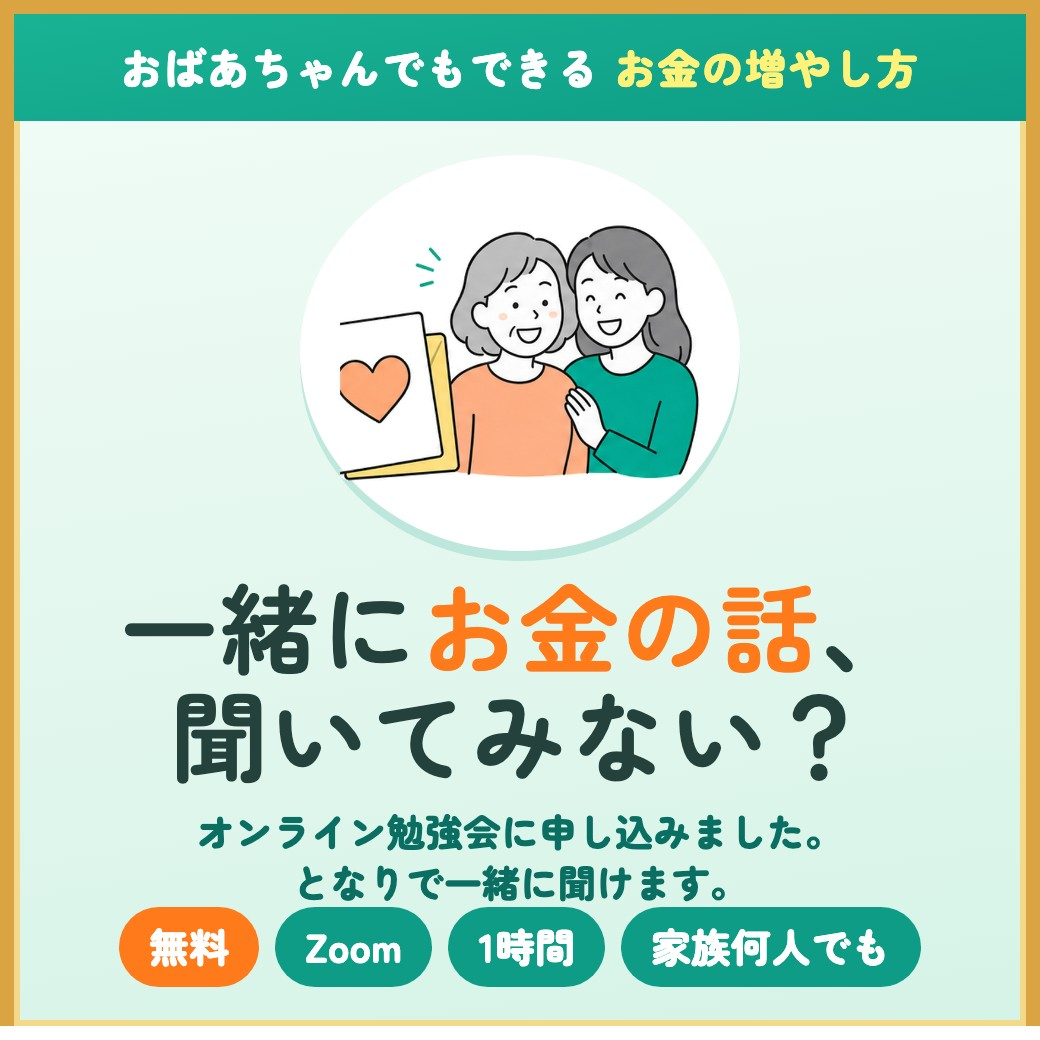
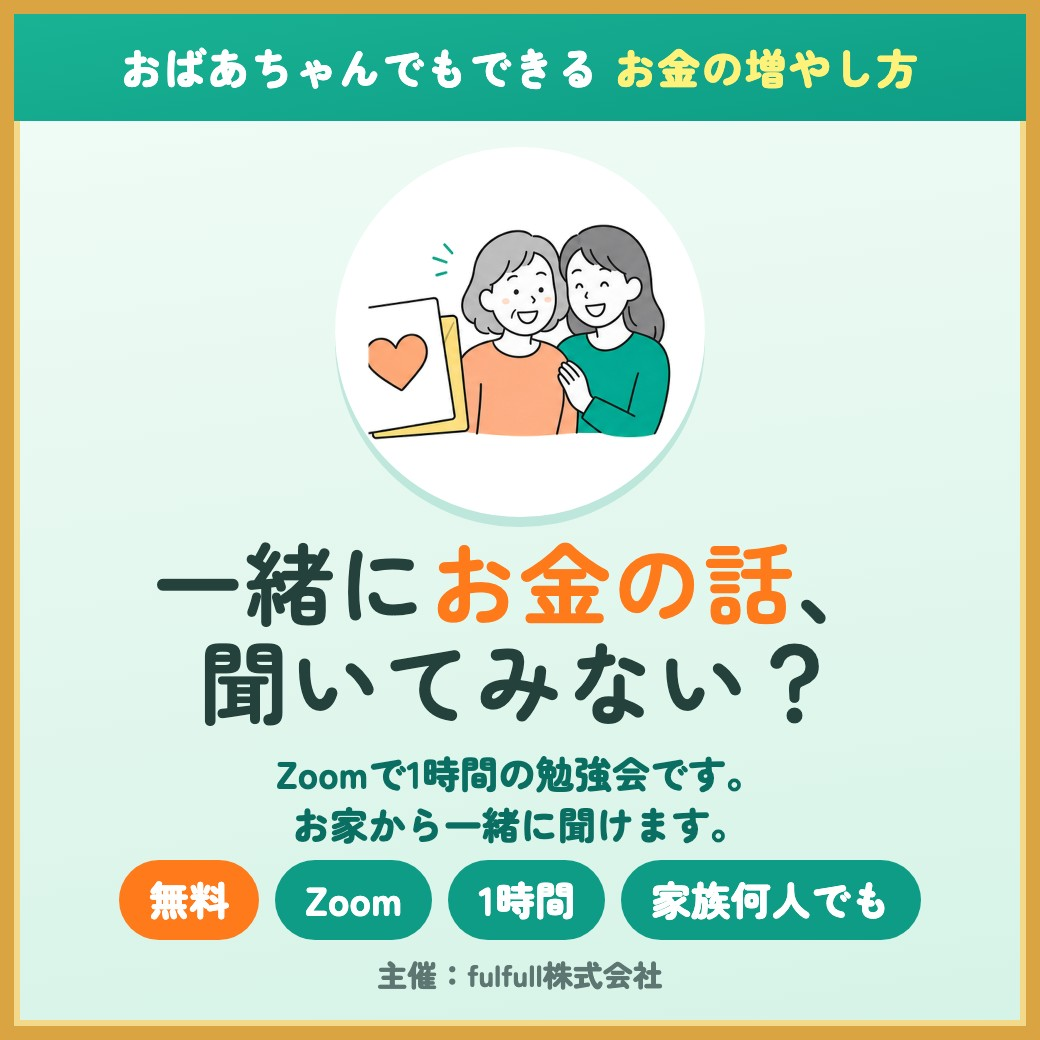
確認用：LINE全文と診断を第2版に（点検と100人テストの直し）
診断に「回せない」「年金・退職金」「使う順番」の席を足し、最後のボタンの言い方を直した。
全文は2日後の文を2案で並べ、Zoomの案内を実際の画面に合わせた。どちらも noindex の確認用。

Changed region(s): [[0.0923, 0.2154, 0.8923, 0.9538], [0.0, 0.9846, 1.0, 1.0]]

diff --git a/line-zenbun/index.html b/line-zenbun/index.html
@@ -52,8 +52,8 @@ footer{margin-top:40px;text-align:center;color:var(--sub);font-size:13px;font-we
 </style></head><body>
 <div class="top"><small>確認用の見本・本番には入れていません</small><h1>LINEの全文</h1><p>おばあちゃんでもできる お金の増やし方 オンライン勉強会</p></div>
 <div class="wrap">
-<div class="count"><div><b>10</b>新しく作る</div><div><b>4</b>言葉を直す</div><div><b>4</b>今のまま</div><div><b>1</b>止める</div></div>
-<div class="list"><a class="row k-new" href="#A1"><b>追加の直後</b><span>新しいLPから追加した人（Xから来た人は今の別の文のまま）</span><em>新しく作る</em></a><a class="row k-new" href="#A2"><b>診断の結果を送った直後</b><span>診断の最後のボタンを押した人（自動で返る・タイプごとに4種類）</span><em>新しく作る</em></a><a class="row k-keep" href="#A3"><b>10分後</b><span>全員</span><em>今のまま</em></a><a class="row k-new" href="#A4"><b>30分後</b><span>まだ申し込んでいない人</span><em>新しく作る</em></a><a class="row k-new" href="#A5"><b>1日後 19:30</b><span>まだ申し込んでいない人</span><em>新しく作る</em></a><a class="row k-new" href="#A6"><b>2日後 19:30</b><span>まだ申し込んでいない人</span><em>新しく作る</em></a><a class="row k-new" href="#A7"><b>3日後 20:00</b><span>まだ申し込んでいない人</span><em>新しく作る</em></a><a class="row k-stop" href="#A8"><b>4日後 20:00</b><span>―</span><em>止める</em></a><a class="row k-keep" href="#A9"><b>7日後・14日後・21日後</b><span>全員（21日後は、申し込んでいない人）</span><em>今のまま</em></a><a class="row k-new" href="#B1"><b>申込の直後</b><span>申し込んだ人</span><em>新しく作る</em></a><a class="row k-keep" href="#B2"><b>7日前 12:30</b><span>申し込んだ人</span><em>今のまま</em></a><a class="row k-fix" href="#B3"><b>3日前 12:30</b><span>申し込んだ人</span><em>言葉を直す</em></a><a class="row k-fix" href="#B4"><b>前日 12:30</b><span>申し込んだ人</span><em>言葉を直す</em></a><a class="row k-keep" href="#B5"><b>当日 7:30／1時間前／5分前</b><span>申し込んだ人</span><em>今のまま</em></a><a class="row k-fix" href="#B6"><b>翌朝 8:00</b><span>申し込んだが、席に着けなかった人</span><em>言葉を直す</em></a><a class="row k-fix" href="#B7"><b>2日後 19:30</b><span>申し込んだが、席に着けなかった人</span><em>言葉を直す</em></a><a class="row k-new" href="#C1"><b>翌朝 8:00</b><span>参加した人</span><em>新しく作る</em></a><a class="row k-new" href="#D1"><b>はじめての人のメニュー</b><span>追加した全員</span><em>新しく作る</em></a><a class="row k-new" href="#D2"><b>参加した人のメニュー</b><span>「勉強会参加済み」の人</span><em>新しく作る</em></a></div>
+<div class="count"><div><b>11</b>新しく作る</div><div><b>4</b>言葉を直す</div><div><b>4</b>今のまま</div><div><b>1</b>止める</div></div>
+<div class="list"><a class="row k-new" href="#A1"><b>追加の直後</b><span>新しいLPから追加した人（Xから来た人は今の別の文のまま）</span><em>新しく作る</em></a><a class="row k-new" href="#A2"><b>診断の結果を送った直後</b><span>診断の最後のボタンを押した人（自動で返る・タイプごとに4種類）</span><em>新しく作る</em></a><a class="row k-keep" href="#A3"><b>10分後</b><span>全員</span><em>今のまま</em></a><a class="row k-new" href="#A4"><b>30分後</b><span>まだ申し込んでいない人</span><em>新しく作る</em></a><a class="row k-new" href="#A5"><b>1日後 19:30</b><span>まだ申し込んでいない人</span><em>新しく作る</em></a><a class="row k-new" href="#A6"><b>2日後 19:30</b><span>まだ申し込んでいない人</span><em>新しく作る</em></a><a class="row k-new" href="#A7"><b>3日後 20:00</b><span>まだ申し込んでいない人</span><em>新しく作る</em></a><a class="row k-stop" href="#A8"><b>4日後 20:00</b><span>―</span><em>止める</em></a><a class="row k-keep" href="#A9"><b>7日後・14日後・21日後</b><span>全員（21日後は、申し込んでいない人）</span><em>今のまま</em></a><a class="row k-new" href="#B1"><b>申込の直後</b><span>申し込んだ人</span><em>新しく作る</em></a><a class="row k-new" href="#B1b"><b>申込の3分後</b><span>申し込んだ人</span><em>新しく作る</em></a><a class="row k-keep" href="#B2"><b>7日前 12:30</b><span>申し込んだ人</span><em>今のまま</em></a><a class="row k-fix" href="#B3"><b>3日前 12:30</b><span>申し込んだ人</span><em>言葉を直す</em></a><a class="row k-fix" href="#B4"><b>前日 12:30</b><span>申し込んだ人</span><em>言葉を直す</em></a><a class="row k-keep" href="#B5"><b>当日 7:30／1時間前／5分前</b><span>申し込んだ人</span><em>今のまま</em></a><a class="row k-fix" href="#B6"><b>翌朝 8:00</b><span>申し込んだが、席に着けなかった人</span><em>言葉を直す</em></a><a class="row k-fix" href="#B7"><b>2日後 19:30</b><span>申し込んだが、席に着けなかった人</span><em>言葉を直す</em></a><a class="row k-new" href="#C1"><b>翌朝 8:00</b><span>参加した人</span><em>新しく作る</em></a><a class="row k-new" href="#D1"><b>はじめての人のメニュー</b><span>追加した全員</span><em>新しく作る</em></a><a class="row k-new" href="#D2"><b>参加した人のメニュー</b><span>「勉強会参加済み」の人</span><em>新しく作る</em></a></div>
 <h2><i>✓</i>全体でそろえた言葉</h2>
 <div class="rule"><ul>
 <li>1回「1〜3組」。毎月「3万円から」。相談は「60分 税込5,500円」、参加した方は無料。</li>
@@ -70,17 +70,20 @@ footer{margin-top:40px;text-align:center;color:var(--sub);font-size:13px;font-we
 
 ・あなたのお金のタイプ
 ・毎月の積み立てが、この先どう育つか
-・あなたの回でお話しする3つ</div><figure class="b img"><img src="img/shindan_cover.jpg" alt="診断の表紙。タップで診断ページ" loading="lazy"><figcaption>診断の表紙。タップで診断ページ</figcaption></figure><div class="b btn">診断をはじめる（1分）</div><p class="to">押すと：診断ページ</p><div class="b btn">先に、空いている日を見る</div><p class="to">押すと：予約ページ</p></div><ul class="memo"><li>今の「登録直後_3問カード」は下書きにして残します。3つの質問は診断の中に入るので、別では送りません。</li></ul></article><article class="msg k-new" id="A2"><header><span class="when">診断の結果を送った直後</span><em>新しく作る</em></header><dl><dt>届く人</dt><dd>診断の最後のボタンを押した人（自動で返る・タイプごとに4種類）</dd><dt>今</dt><dd>なし（新しく作る）</dd></dl><div class="tabs" data-t="A2"><button type="button" class="on" data-i="0">たねまき</button><button type="button" data-i="1">めばえ</button><button type="button" data-i="2">つぼみ</button><button type="button" data-i="3">はなさか</button></div><div class="talk"><div class="pane" data-p="A2-0"><figure class="b img"><img src="img/kekka_1.jpg" alt="結果カード。タップで予約ページ" loading="lazy"><figcaption>結果カード。タップで予約ページ</figcaption></figure><div class="b">結果を受け取りました📋
-<span class="v">%line_name%</span>さんは「たねまきさん」。
-まだ何もしていなくて、大丈夫です。
-まく順番さえ分かれば、あとは育つのを待つだけです。
+・あなたの回でお話しする3つ
+
+日程をすぐ見たい方は、下の「先に、空いている日を見る」からどうぞ📅</div><figure class="b img"><img src="img/shindan_cover.jpg" alt="診断の表紙。タップで診断ページ" loading="lazy"><figcaption>診断の表紙。タップで診断ページ</figcaption></figure><div class="b btn">診断をはじめる（1分）</div><p class="to">押すと：診断ページ</p><div class="b btn">先に、空いている日を見る</div><p class="to">押すと：予約ページ</p></div><ul class="memo"><li>今の「登録直後_3問カード」は下書きにして残します。3つの質問は診断の中に入るので、別では送りません。</li><li>【第2版】LPが5か所で「すぐに日程が届きます」と約束しているので、日程の1行を足しました。</li></ul></article><article class="msg k-new" id="A2"><header><span class="when">診断の結果を送った直後</span><em>新しく作る</em></header><dl><dt>届く人</dt><dd>診断の最後のボタンを押した人（自動で返る・タイプごとに4種類）</dd><dt>今</dt><dd>なし（新しく作る）</dd></dl><div class="tabs" data-t="A2"><button type="button" class="on" data-i="0">たねまき</button><button type="button" data-i="1">めばえ</button><button type="button" data-i="2">つぼみ</button><button type="button" data-i="3">はなさか</button></div><div class="talk"><div class="pane" data-p="A2-0"><figure class="b img"><img src="img/kekka_1.jpg" alt="結果カード。タップで予約ページ" loading="lazy"><figcaption>結果カード。タップで予約ページ</figcaption></figure><div class="b">結果を受け取りました📋
+「たねまきさん」ですね。
+ここからが、はじまりです。
+貯めてきたお金も、りっぱな種です。
+まく順番が分かると、最初の一歩がぐっと軽くなります。
 
 当日は、この結果と、選んでいただいた「聞きたいこと」から話を始めます。
 
 勉強会は、Zoomで1時間。
 1回1〜3組の少人数で、参加は無料です。
 ご家族と一緒でも、お一人でも。</div><div class="b btn">日程を選ぶ</div><p class="to">押すと：予約ページ</p></div><div class="pane" hidden data-p="A2-1"><figure class="b img"><img src="img/kekka_2.jpg" alt="結果カード。タップで予約ページ" loading="lazy"><figcaption>結果カード。タップで予約ページ</figcaption></figure><div class="b">結果を受け取りました📋
-<span class="v">%line_name%</span>さんは「めばえさん」。
+「めばえさん」ですね。
 口座を作ったのは、大きな一歩です。
 次は、何をどれだけ育てるかを決める番です。
 
@@ -89,7 +92,7 @@ footer{margin-top:40px;text-align:center;color:var(--sub);font-size:13px;font-we
 勉強会は、Zoomで1時間。
 1回1〜3組の少人数で、参加は無料です。
 ご家族と一緒でも、お一人でも。</div><div class="b btn">日程を選ぶ</div><p class="to">押すと：予約ページ</p></div><div class="pane" hidden data-p="A2-2"><figure class="b img"><img src="img/kekka_3.jpg" alt="結果カード。タップで予約ページ" loading="lazy"><figcaption>結果カード。タップで予約ページ</figcaption></figure><div class="b">結果を受け取りました📋
-<span class="v">%line_name%</span>さんは「つぼみさん」。
+「つぼみさん」ですね。
 続けているのが、いちばんの力です。
 今のやり方が合っているか、当日いっしょに確かめましょう。
 
@@ -98,7 +101,7 @@ footer{margin-top:40px;text-align:center;color:var(--sub);font-size:13px;font-we
 勉強会は、Zoomで1時間。
 1回1〜3組の少人数で、参加は無料です。
 ご家族と一緒でも、お一人でも。</div><div class="b btn">日程を選ぶ</div><p class="to">押すと：予約ページ</p></div><div class="pane" hidden data-p="A2-3"><figure class="b img"><img src="img/kekka_4.jpg" alt="結果カード。タップで予約ページ" loading="lazy"><figcaption>結果カード。タップで予約ページ</figcaption></figure><div class="b">結果を受け取りました📋
-<span class="v">%line_name%</span>さんは「はなさかさん」。
+「はなさかさん」ですね。
 ここまで育てた方は多くありません。
 次は、守り方と、笑って使う順番です。
 
@@ -106,7 +109,7 @@ footer{margin-top:40px;text-align:center;color:var(--sub);font-size:13px;font-we
 
 勉強会は、Zoomで1時間。
 1回1〜3組の少人数で、参加は無料です。
-ご家族と一緒でも、お一人でも。</div><div class="b btn">日程を選ぶ</div><p class="to">押すと：予約ページ</p></div></div><ul class="memo"><li>診断の最後のボタンを押すと、「診断結果：めばえさん／毎月3万円／15年／聞きたいこと：新NISA」のような1行がトークに入ります。送ると、この返事が自動で届きます。</li><li>返事の合図は「診断結果：たねまきさん」など4つ（前方一致）。タイプ名のラベルも付けます。講師は当日、この1行を見て話を始めます。</li></ul></article><article class="msg k-keep" id="A3"><header><span class="when">10分後</span><em>今のまま</em></header><dl><dt>届く人</dt><dd>全員</dd><dt>今</dt><dd>「何で知りましたか」のボタン1問</dd></dl><ul class="memo"><li>今のまま使います。広告・紹介・SNSのどこから来たかを数える1問です。</li></ul></article><article class="msg k-new" id="A4"><header><span class="when">30分後</span><em>新しく作る</em></header><dl><dt>届く人</dt><dd>まだ申し込んでいない人</dd><dt>今</dt><dd>声2つ＋家族の変化の長文</dd></dl><div class="talk"><figure class="b img"><img src="img/photo.jpg" alt="LPと同じ写真" loading="lazy"><figcaption>LPと同じ写真</figcaption></figure><div class="b">50代・60代で学び直した方の声です。
+ご家族と一緒でも、お一人でも。</div><div class="b btn">日程を選ぶ</div><p class="to">押すと：予約ページ</p></div></div><ul class="memo"><li>診断の最後のボタンを押すと、「診断結果：めばえさん／毎月3万円／15年／聞きたいこと：新NISA」のような1行がトークに入ります。送ると、この返事が自動で届きます。</li><li>返事の合図は「診断結果：たねまきさん」など4つ。タイプ名のラベルも付けます。講師は当日、この1行を見て話を始めます。</li><li>【第2版】自動の返事では名前の差し込みが効かないので、名前を外しました。たねまきさんの文は、言い切りをやめ、貯めてきた方にも合う言い方にしました。</li><li>【第2版】診断の最後のボタンを「結果のカードをLINEで受け取る」に替え、「紙ひこうき（送信）を押すだけ」の案内を足しました。送らなかった方には、30分後のLINEでもう一度ご案内します。</li></ul></article><article class="msg k-keep" id="A3"><header><span class="when">10分後</span><em>今のまま</em></header><dl><dt>届く人</dt><dd>全員</dd><dt>今</dt><dd>「何で知りましたか」のボタン1問</dd></dl><ul class="memo"><li>今のまま使います。広告・紹介・SNSのどこから来たかを数える1問です。</li></ul></article><article class="msg k-new" id="A4"><header><span class="when">30分後</span><em>新しく作る</em></header><dl><dt>届く人</dt><dd>まだ申し込んでいない人</dd><dt>今</dt><dd>声2つ＋家族の変化の長文</dd></dl><div class="talk"><figure class="b img"><img src="img/photo.jpg" alt="LPと同じ写真" loading="lazy"><figcaption>LPと同じ写真</figcaption></figure><div class="b">50代・60代で学び直した方の声です。
 
 「お金に対する不安が和らぎ、生き方まで変わりました」
 大和田さん（50代・サービス業）
@@ -114,7 +117,8 @@ footer{margin-top:40px;text-align:center;color:var(--sub);font-size:13px;font-we
 「ずっと興味はありましたが、何を信じていいか分からず、踏み出せずにいました」
 住田さん（60代・会社員）
 
-今週・来週の空きは、下のボタンから見られます📅</div><div class="b btn">日程を選ぶ</div><p class="to">押すと：予約ページ</p></div><ul class="memo"><li>声は2つとも、LPに載せている文をそのまま使っています。</li></ul></article><article class="msg k-new" id="A5"><header><span class="when">1日後 19:30</span><em>新しく作る</em></header><dl><dt>届く人</dt><dd>まだ申し込んでいない人</dd><dt>今</dt><dd>会の雰囲気＋中身5つ</dd></dl><div class="talk"><div class="b"><span class="v">%line_name%</span>さん、こんばんは。
+今週・来週の空きは、下のボタンから見られます📅
+診断がまだの方・結果を受け取っていない方は、「診断をはじめる」からどうぞ。</div><div class="b btn">日程を選ぶ</div><p class="to">押すと：予約ページ</p><div class="b btn">診断をはじめる（1分）</div><p class="to">押すと：診断ページ</p></div><ul class="memo"><li>【第2版】テストで、結果は見たのに送らなかった人が16〜17人。その方の受け皿として、診断のボタンを足しました。</li><li>声は2つとも、LPに載せている文をそのまま使っています。</li></ul></article><article class="msg k-new" id="A5"><header><span class="when">1日後 19:30</span><em>新しく作る</em></header><dl><dt>届く人</dt><dd>まだ申し込んでいない人</dd><dt>今</dt><dd>会の雰囲気＋中身5つ</dd></dl><div class="talk"><div class="b"><span class="v">%line_name%</span>さん、こんばんは。
 
 「Zoomは、はじめてで…」という方へ。
 やることは3つだけです。
@@ -124,7 +128,7 @@ footer{margin-top:40px;text-align:center;color:var(--sub);font-size:13px;font-we
 3．講師に聞かれたら、声で答える
 
 金額は口に出さなくてOKです。
-お申し込みのあと、入り方を一度ためせるリンクが届きます。</div><figure class="b img"><img src="img/zoom3.jpg" alt="3コマの図" loading="lazy"><figcaption>3コマの図</figcaption></figure><div class="b btn">日程を選ぶ</div><p class="to">押すと：予約ページ</p></div></article><article class="msg k-new" id="A6"><header><span class="when">2日後 19:30</span><em>新しく作る</em></header><dl><dt>届く人</dt><dd>まだ申し込んでいない人</dd><dt>今</dt><dd>子育て中の苦労話</dd></dl><div class="talk"><div class="b"><span class="v">%line_name%</span>さん、こんばんは。
+お申し込みのあと、入り方を一度ためせるリンクが届きます。</div><figure class="b img"><img src="img/zoom3.jpg" alt="3コマの図" loading="lazy"><figcaption>3コマの図</figcaption></figure><div class="b btn">日程を選ぶ</div><p class="to">押すと：予約ページ</p></div></article><article class="msg k-new" id="A6"><header><span class="when">2日後 19:30</span><em>新しく作る</em></header><dl><dt>届く人</dt><dd>まだ申し込んでいない人</dd><dt>今</dt><dd>子育て中の苦労話</dd></dl><div class="tabs" data-t="A6"><button type="button" class="on" data-i="0">OKをもらった文</button><button type="button" data-i="1">テスト後のおすすめ</button></div><div class="talk"><div class="pane" data-p="A6-0"><div class="b"><span class="v">%line_name%</span>さん、こんばんは。
 
 ご自分の数字で、じっくり相談したい方へ。
 道は2つあります。
@@ -138,7 +142,19 @@ B．勉強会に参加してから相談する
 おすすめは、Bです。
 勉強会で全体が見えてからのほうが、相談の1時間を深く使えます。
 
-相談では、NISAのことも、家計のことも、もしもの備えのことも伺います。</div><div class="b btn">勉強会の日程を選ぶ（無料）</div><p class="to">押すと：予約ページ</p><div class="b btn">個別相談を予約する（60分 5,500円）</div><p class="to">押すと：有料の相談ページ（10月に作ったもの）</p></div></article><article class="msg k-new" id="A7"><header><span class="when">3日後 20:00</span><em>新しく作る</em></header><dl><dt>届く人</dt><dd>まだ申し込んでいない人</dd><dt>今</dt><dd>朝・夜・夜の3通（かっこいい親・さすがママ）</dd></dl><div class="talk"><div class="b">物価は上がるのに、貯金はそのまま。
+相談では、NISAのことも、家計のことも、もしもの備えのことも伺います。</div><div class="b btn">勉強会の日程を選ぶ（無料）</div><p class="to">押すと：予約ページ</p><div class="b btn">個別相談を予約する（5,500円）</div><p class="to">押すと：有料の相談ページ</p></div><div class="pane" hidden data-p="A6-1"><div class="b"><span class="v">%line_name%</span>さん、こんばんは。
+
+「うちの場合は、どうなんだろう」
+勉強会は、そこから始める1時間です。
+
+たとえば、こんな「聞きたいこと」から。
+・退職金や貯金の、置き場所
+・年金だけだと、毎月いくら足りないか
+・新NISAを始めそびれた
+・今のやり方で合っているか
+
+1回1〜3組なので、ご自分の話から聞けます。
+参加された方は、個別のご相談も無料です。</div><div class="b btn">日程を選ぶ</div><p class="to">押すと：予約ページ</p></div></div><ul class="memo"><li>【テストの結果】OKをもらった文は、100人のうち16〜20人が「売り込みの入口」と受け取り、読んだあとのブロックが4人。有料の相談の予約は0〜1人でした。この文で動いたのは、相談が本命の3〜5人です。</li><li>【おすすめ】2日後は「自分の話から聞ける」ことを伝える文に替え、有料の個別相談は、メニューの「個別に相談」と、参加した翌朝のLINEに任せます。どちらにするかは、森川さんに決めていただきます。</li><li>【第2版】OKをもらった文のボタンは、21文字で上限（20文字）を超えていたので「個別相談を予約する（5,500円）」に縮めました。</li><li>⏳料金：今ある予約ページは「30分 5,500円」と「60分 11,000円」です。「60分 5,500円」のページはありません。決まるまで、この文は本番に入れられません。</li></ul></article><article class="msg k-new" id="A7"><header><span class="when">3日後 20:00</span><em>新しく作る</em></header><dl><dt>届く人</dt><dd>まだ申し込んでいない人</dd><dt>今</dt><dd>朝・夜・夜の3通（かっこいい親・さすがママ）</dd></dl><div class="talk"><div class="b">物価は上がるのに、貯金はそのまま。
 
 50代・60代からでも、
 まだ間に合います。
@@ -148,7 +164,7 @@ B．勉強会に参加してから相談する
 笑って出せる私へ。
 
 日程は2週間先まで選べます📅</div><div class="b btn">日程を選ぶ</div><p class="to">押すと：予約ページ</p><div class="b">今回は見送る方へ。
-このあとは、月に数回、家計の役に立つ話だけをお届けします。</div></div><ul class="memo"><li>今の「3日後 8:00」「3日後 21:00」は下書きにします。3日目は、この1通だけになります。</li></ul></article><article class="msg k-stop" id="A8"><header><span class="when">4日後 20:00</span><em>止める</em></header><dl><dt>届く人</dt><dd>―</dd><dt>今</dt><dd>今回見送る方へ（18分の動画の案内つき）</dd></dl><ul class="memo"><li>止めます（下書きにして残す）。見送る方への一言は3日後に入れました。18分の動画の案内も、ここで外れます。</li></ul></article><article class="msg k-keep" id="A9"><header><span class="when">7日後・14日後・21日後</span><em>今のまま</em></header><dl><dt>届く人</dt><dd>全員（21日後は、申し込んでいない人）</dd><dt>今</dt><dd>ラジオの紹介／参加した方のその後／新しい日程</dd></dl><ul class="memo"><li>文は今のまま使います。50代の女性の話と、ラジオの紹介で、新しいLPとずれていません。</li><li>3通に付いている画像3枚は、入れ替えの日に目で確かめます。「月5万円」「1〜3名」が残っていたら、「毎月3万円」「1〜3組」に直します。</li></ul></article></section><section id="B"><h2><i>B</i>申し込んでから、当日まで</h2><p class="lead">シナリオ「リマインダ」。11月に100人テストを通した型を使い、言葉だけ新しい流れに合わせます。</p><article class="msg k-new" id="B1"><header><span class="when">申込の直後</span><em>新しく作る</em></header><dl><dt>届く人</dt><dd>申し込んだ人</dd><dt>今</dt><dd>お礼・入り口・当日のこと（1つの長い吹き出し）</dd></dl><div class="talk"><figure class="b img"><img src="img/seki.jpg" alt="席札カード" loading="lazy"><figcaption>席札カード</figcaption></figure><div class="b"><span class="v">%line_name%</span>さん
+このあとは、月に数回、家計の役に立つ話と、新しい日程のお知らせをお届けします。</div></div><ul class="memo"><li>今の「3日後 8:00」「3日後 21:00」は下書きにします。3日目は、この1通だけになります。</li></ul></article><article class="msg k-stop" id="A8"><header><span class="when">4日後 20:00</span><em>止める</em></header><dl><dt>届く人</dt><dd>―</dd><dt>今</dt><dd>今回見送る方へ（18分の動画の案内つき）</dd></dl><ul class="memo"><li>止めます（下書きにして残す）。見送る方への一言は3日後に入れました。18分の動画の案内も、ここで外れます。</li></ul></article><article class="msg k-keep" id="A9"><header><span class="when">7日後・14日後・21日後</span><em>今のまま</em></header><dl><dt>届く人</dt><dd>全員（21日後は、申し込んでいない人）</dd><dt>今</dt><dd>ラジオの紹介／参加した方のその後／新しい日程</dd></dl><ul class="memo"><li>文は今のまま使います。50代の女性の話と、ラジオの紹介で、新しいLPとずれていません。</li><li>3通に付いている画像3枚は、入れ替えの日に目で確かめます。「月5万円」「1〜3名」が残っていたら、「毎月3万円」「1〜3組」に直します。</li></ul></article></section><section id="B"><h2><i>B</i>申し込んでから、当日まで</h2><p class="lead">シナリオ「リマインダ」。11月に100人テストを通した型を使い、言葉だけ新しい流れに合わせます。</p><article class="msg k-new" id="B1"><header><span class="when">申込の直後</span><em>新しく作る</em></header><dl><dt>届く人</dt><dd>申し込んだ人</dd><dt>今</dt><dd>お礼・入り口・当日のこと（1つの長い吹き出し）</dd></dl><div class="talk"><figure class="b img"><img src="img/seki.jpg" alt="席札カード" loading="lazy"><figcaption>席札カード</figcaption></figure><div class="b"><span class="v">%line_name%</span>さん
 ご予約ありがとうございます😊
 お金の増やし方オンライン勉強会、主催の森川です。
 
@@ -161,22 +177,24 @@ B．勉強会に参加してから相談する
 <span class="u">https://mm738966m-boop.github.io/okane-benkyokai/zoom/?m=<span class="v">%mail%</span></span></div><div class="b">いま1分だけ、お願いがあります。
 上のリンクを、一度だけ押してみてください。
 
-・日時の入ったページが出たら、準備OKです
-・Zoomのアプリがまだの方は、そのページの「アプリを入れる」から入れられます（無料です）
+・Zoomの画面が出たら、準備OKです（そのまま閉じて大丈夫です）
+・Zoomのアプリがまだの方は、入れる画面が出ます（無料です）
 
+うまくいかないときは、このトークに「Zoomに入れません」と一言ください。
 先に済ませておくと、当日は押すだけです。</div><div class="b">当日のこと
 
 ・診断の結果と「聞きたいこと」から話を始めます
+　（診断がまだの方は、当日その場でお聞きします）
 ・カメラはオフのままでOKです
 ・講師が順番にお聞きするので、声で答えるだけでOKです
 　（イヤホンがあると安心です）
 ・金額は口に出さなくて大丈夫です
 
 当日までに何度か、このLINEで入り口をお送りします。
-いちばん最後は、始まる5分前です。</div><div class="b">ご家族と一緒に聞く方へ。
+いちばん最後は、始まる5分前です。</div></div><ul class="memo"><li>今の文から外したのは「会の中で、商品をおすすめすることはありません」の1行です。足したのは、席札カード・診断の1行・家族に送るカードです。</li><li>「新NISA、はじめる前の3つのチェック」のページは、前日のLINEに移します。</li><li>【第2版】今の入り口のページは、日時も「アプリを入れる」も出さず、すぐZoomを開きます。文のほうを実際の画面に合わせました（今の本番からあった食い違いです）。</li><li>【第2版】LINEは1回に5個までなので、家族のカードは3分後の別の1通に分けました。</li></ul></article><article class="msg k-new" id="B1b"><header><span class="when">申込の3分後</span><em>新しく作る</em></header><dl><dt>届く人</dt><dd>申し込んだ人</dd><dt>今</dt><dd>なし（新しく作る）</dd></dl><div class="talk"><div class="b">ご家族と一緒に聞く方へ。
 下のカードを、そのままご家族に送れます。
 （画像を長押しして「転送」）
-となりで一緒に聞けます。</div><figure class="b img"><img src="img/kazoku.jpg" alt="家族に送るカード" loading="lazy"><figcaption>家族に送るカード</figcaption></figure></div><ul class="memo"><li>今の文から外したのは「会の中で、商品をおすすめすることはありません」の1行です。足したのは、席札カード・診断の1行・家族に送るカードです。</li><li>「新NISA、はじめる前の3つのチェック」のページは、前日のLINEに移します。</li></ul></article><article class="msg k-keep" id="B2"><header><span class="when">7日前 12:30</span><em>今のまま</em></header><dl><dt>届く人</dt><dd>申し込んだ人</dd><dt>今</dt><dd>あと1週間・入り口</dd></dl><ul class="memo"><li>今のまま使います。</li></ul></article><article class="msg k-fix" id="B3"><header><span class="when">3日前 12:30</span><em>言葉を直す</em></header><dl><dt>届く人</dt><dd>申し込んだ人</dd><dt>今</dt><dd>持ち帰る3つ＋「聞きたいこと」のボタン4つ</dd></dl><div class="talk"><div class="b"><span class="v">%line_name%</span>さん
+お家から一緒に聞けます。</div><figure class="b img"><img src="img/kazoku.jpg" alt="家族に送るカード" loading="lazy"><figcaption>家族に送るカード</figcaption></figure></div><ul class="memo"><li>【第2版】カードの文を「Zoomで1時間の勉強会です。お家から一緒に聞けます。」に替え、主催の名前を入れました。参加した方が「家族を誘う」で使っても、事実と合います。</li></ul></article><article class="msg k-keep" id="B2"><header><span class="when">7日前 12:30</span><em>今のまま</em></header><dl><dt>届く人</dt><dd>申し込んだ人</dd><dt>今</dt><dd>あと1週間・入り口</dd></dl><ul class="memo"><li>今のまま使います。</li></ul></article><article class="msg k-fix" id="B3"><header><span class="when">3日前 12:30</span><em>言葉を直す</em></header><dl><dt>届く人</dt><dd>申し込んだ人</dd><dt>今</dt><dd>持ち帰る3つ＋「聞きたいこと」のボタン4つ</dd></dl><div class="talk"><div class="b"><span class="v">%line_name%</span>さん
 森川です😊
 勉強会まで、あと3日です。
 
@@ -195,7 +213,7 @@ B．勉強会に参加してから相談する
 
 ご都合が変わったときは、このトークに「変更」と一言ください。
 別の日にお席を移せます。</div><div class="b">当日は、診断で選んでいただいた「聞きたいこと」から始めます。
-変わった方・まだの方は、下から1つ選んでください。</div><div class="b btn">毎月いくら積み立てるか</div><p class="to">押すと：押すと「聞きたいこと：◯◯」が送られる（今と同じ）</p><div class="b btn">老後のお金</div><div class="b btn">新NISAのこと</div><div class="b btn">何から始めるか</div></div><ul class="memo"><li>直すのは2か所です。「顔出しはなしで大丈夫です」を「カメラはオフのままでOKです」に。ボタンの前の一言を、診断とつながる文に。</li><li>ボタンの「教育費」は「新NISAのこと」に替えます。診断の選択肢とそろえるためです。</li></ul></article><article class="msg k-fix" id="B4"><header><span class="when">前日 12:30</span><em>言葉を直す</em></header><dl><dt>届く人</dt><dd>申し込んだ人</dd><dt>今</dt><dd>入り口＋明日の流れ</dd></dl><div class="talk"><div class="b"><span class="v">%line_name%</span>さん
+変わった方・まだの方は、下から1つ選んでください。</div><div class="b btn">何から始めるか</div><p class="to">押すと：押すと「聞きたいこと：◯◯」が送られる（今と同じ）</p><div class="b btn">いくら貯めれば安心か</div><div class="b btn">新NISAのこと</div><div class="b btn">年金・退職金のこと</div></div><ul class="memo"><li>直すのは2か所です。「顔出しはなしで大丈夫です」を「カメラはオフのままでOKです」に。ボタンの前の一言を、診断とつながる文に。</li><li>【第2版】ボタン4つを、診断の「聞きたいこと」とそろえました（何から始めるか／いくら貯めれば安心か／新NISAのこと／年金・退職金のこと）。</li></ul></article><article class="msg k-fix" id="B4"><header><span class="when">前日 12:30</span><em>言葉を直す</em></header><dl><dt>届く人</dt><dd>申し込んだ人</dd><dt>今</dt><dd>入り口＋明日の流れ</dd></dl><div class="talk"><div class="b"><span class="v">%line_name%</span>さん
 こんにちは、森川です😊
 
 いよいよ明日ですね。
@@ -207,11 +225,12 @@ B．勉強会に参加してから相談する
 <span class="u">https://mm738966m-boop.github.io/okane-benkyokai/zoom/?m=<span class="v">%mail%</span></span>
 
 まだでしたら、今日のうちに一度だけ押してみてください。
-日時の入ったページが出たら、準備OKです。
-Zoomのアプリがまだの方は、そのページから入れられます。</div><div class="b">明日の流れは、こんな感じです。
+Zoomの画面が出たら、準備OKです。
+Zoomのアプリがまだの方は、入れる画面が出ます。</div><div class="b">明日の流れは、こんな感じです。
 
 1. はじめに、声の聞こえ方を一緒に確かめます
 2. 診断の結果と「聞きたいこと」から、話を始めます
+（まだの方は、その場でひとことお聞きします）
 3. そこから、<span class="v">%line_name%</span>さんの家の
 「毎月いくらなら無理がないか」を一緒に出します
 
@@ -259,15 +278,15 @@ NISAのことも、家計のことも、もしもの備えのことも。
 参加された方のご相談は、無料です（Zoom・60分）。
 
 下のメニューが、参加された方用に変わりました。
-「個別に相談」から、日時を選べます。</div></div><ul class="memo"><li>このLINEと同時に、メニューを参加者用に切り替え、ラベル「勉強会参加済み」を付けます。</li><li>今の下書きにある「ふだんは11,000円」「はじめての1回だけ」は使いません。お金の勉強会のLINEでは、相談は60分5,500円、参加した方は無料（回数も期限も書かない）でそろえます。</li><li>当日のうちに、担当（森川・尾道）が参加者に「参加済」を付けます。付け忘れると、このLINEとメニューの切り替えが届きません。</li></ul></article></section><section id="D"><h2><i>D</i>メニューを押したとき</h2><p class="lead">はじめての人用と、参加した人用の2枚。画像は下に載せています。</p><article class="msg k-new" id="D1"><header><span class="when">はじめての人のメニュー</span><em>新しく作る</em></header><dl><dt>届く人</dt><dd>追加した全員</dd><dt>今</dt><dd>勉強会・診断・新NISAの質問・18分の動画・ラジオ</dd></dl><div class="talk"><figure class="b img wide"><img src="img/menu_hajimete.jpg" alt="メニュー画像（2500×1686）" loading="lazy"><figcaption>メニュー画像（2500×1686）</figcaption></figure><div class="b">個別相談は、60分・税込5,500円です。
+「個別に相談」から、日時を選べます。</div></div><ul class="memo"><li>このLINEと同時に、メニューを参加者用に切り替え、ラベル「勉強会参加済み」を付けます。</li><li>今の下書きにある「ふだんは11,000円」「はじめての1回だけ」は使いません。参加した方は無料（回数も期限も書かない）でそろえます。</li><li>⏳今ある参加者用の相談ページは「おひとり1回」の設定です。回数を書かない方針なら、2回目の方の受け方を決めます。</li><li>当日のうちに、担当（森川・尾道）が参加者に「参加済」を付けます。付け忘れると、このLINEとメニューの切り替えが届きません。</li><li>【点検】付け忘れると、参加した方に「Zoomにうまく入れなかった、ということは…」の文が届きます。案：その回の講師が、終わって30分以内に付ける。この通と、席に着けなかった方への通を、朝8:00から12:30に下げる。</li></ul></article></section><section id="D"><h2><i>D</i>メニューを押したとき</h2><p class="lead">はじめての人用と、参加した人用の2枚。画像は下に載せています。</p><article class="msg k-new" id="D1"><header><span class="when">はじめての人のメニュー</span><em>新しく作る</em></header><dl><dt>届く人</dt><dd>追加した全員</dd><dt>今</dt><dd>勉強会・診断・新NISAの質問・18分の動画・ラジオ</dd></dl><div class="talk"><figure class="b img wide"><img src="img/menu_hajimete.jpg" alt="メニュー画像（2500×1686）" loading="lazy"><figcaption>メニュー画像（2500×1686）</figcaption></figure><div class="b">個別相談は、60分・税込5,500円です。
 NISAの始め方、毎月の額、家計の見直し、もしもの備えまで、ご自分の数字でじっくり話せます。
 
-勉強会（無料・1時間）に参加された方は、ご相談も無料です。</div><div class="b btn">先に、勉強会の日程を見る（無料）</div><p class="to">押すと：予約ページ</p><div class="b btn">個別相談を予約する（5,500円）</div><p class="to">押すと：有料の相談ページ</p></div><ul class="memo"><li>お金の勉強会（無料）→ 予約ページ。予約とLINEがつながる開き方にします（実機テストで確かめてから）。</li><li>1分診断 → 診断ページ。</li><li>個別に相談 → 下の返事が届く。</li><li>森川のラジオ → Voicyの「まずはこの30本」のページ。会社のホームページ → fulfull.jp。</li></ul></article><article class="msg k-new" id="D2"><header><span class="when">参加した人のメニュー</span><em>新しく作る</em></header><dl><dt>届く人</dt><dd>「勉強会参加済み」の人</dd><dt>今</dt><dd>なし（新しく作る）</dd></dl><div class="talk"><figure class="b img wide"><img src="img/menu_sanka.jpg" alt="メニュー画像（2500×1686）" loading="lazy"><figcaption>メニュー画像（2500×1686）</figcaption></figure><div class="b">ご家族やお友だちに、そのまま送れるカードです。
+勉強会（無料・1時間）に参加された方は、ご相談も無料です。</div><div class="b btn">先に、勉強会の日程を見る（無料）</div><p class="to">押すと：予約ページ</p><div class="b btn">個別相談を予約する（5,500円）</div><p class="to">押すと：有料の相談ページ</p></div><ul class="memo"><li>お金の勉強会（無料）→ 予約ページ。予約とLINEがつながる開き方にします（実機テストで確かめてから）。</li><li>1分診断 → 診断ページ。</li><li>個別に相談 → 下の返事が届く。</li><li>⏳料金：今ある予約ページは「30分 5,500円」と「60分 11,000円」です。決まったら、この文とメニュー画像を合わせます。</li><li>森川のラジオ → Voicyの「まずはこの30本」のページ。会社のホームページ → fulfull.jp。</li></ul></article><article class="msg k-new" id="D2"><header><span class="when">参加した人のメニュー</span><em>新しく作る</em></header><dl><dt>届く人</dt><dd>「勉強会参加済み」の人</dd><dt>今</dt><dd>なし（新しく作る）</dd></dl><div class="talk"><figure class="b img wide"><img src="img/menu_sanka.jpg" alt="メニュー画像（2500×1686）" loading="lazy"><figcaption>メニュー画像（2500×1686）</figcaption></figure><div class="b">ご家族やお友だちに、そのまま送れるカードです。
 （画像を長押しして「転送」）
 
 申し込みは、こちらのページからできます。
-<span class="u">https://fulfull.jp/lp/</span></div><figure class="b img"><img src="img/kazoku.jpg" alt="家族に送るカード" loading="lazy"><figcaption>家族に送るカード</figcaption></figure></div><ul class="memo"><li>個別に相談（無料）→ 相談の予約ページ（Zoom・60分）。</li><li>お土産のノート → ノートのページ。</li><li>家族を誘う → 下の返事が届く。</li><li>森川のラジオ・会社のホームページは、はじめての人用と同じです。</li></ul></article></section>
-<footer>fulfull株式会社｜確認用（第1版・2026年11月26日）</footer>
+<span class="u">https://fulfull.jp/lp/</span></div><figure class="b img"><img src="img/kazoku.jpg" alt="家族に送るカード" loading="lazy"><figcaption>家族に送るカード</figcaption></figure></div><ul class="memo"><li>個別に相談（無料）→ 相談の予約ページ（Zoom・60分）。</li><li>お土産のノート → ノートのページ。</li><li>家族を誘う → 下の返事が届く。</li><li>【点検】このURLのままだと、ご家族の登録が広告の数字に混ざります。本番では、紹介用の入口を1つ用意して差し替えます。</li><li>森川のラジオ・会社のホームページは、はじめての人用と同じです。</li></ul></article></section>
+<footer>fulfull株式会社｜確認用（第2版・2026年11月26日）</footer>
 </div>
 <script>
 document.querySelectorAll('.tabs').forEach(function(t){t.querySelectorAll('button').forEach(function(b){b.onclick=function(){

diff --git a/shindan-next/index.html b/shindan-next/index.html
@@ -95,7 +95,7 @@ button{font:inherit;color:inherit;cursor:pointer;border:0;background:none;paddin
 .bar .plus{position:absolute;top:-6px;background:var(--ye);border-radius:99px;font-size:13px;padding:1px 10px;font-weight:900;opacity:0;transform:scale(.4);transition:all .4s cubic-bezier(.3,1.7,.5,1) 1.4s;white-space:nowrap}
 .bars.run .plus{opacity:1;transform:none}
 .blab{display:grid;grid-template-columns:repeat(3,1fr);gap:10px;text-align:center;font-size:13px;line-height:1.35;margin-top:6px;color:var(--sub)}
-.nt{font-size:11px;color:var(--sub);line-height:1.6;margin:10px 2px 0;font-weight:700}
+.nt{font-size:13px;color:var(--sub);line-height:1.6;margin:10px 2px 0;font-weight:700}
 .menu{display:grid;gap:10px}
 .mi{display:grid;grid-template-columns:76px 1fr;gap:12px;align-items:center;background:#fff;border-radius:18px;padding:10px 12px;box-shadow:0 5px 12px rgba(0,0,0,.06);font-size:17px;line-height:1.45;font-weight:900;opacity:0;transform:translateY(20px);transition:all .5s}
 .mi.in{opacity:1;transform:none}
@@ -107,6 +107,7 @@ button{font:inherit;color:inherit;cursor:pointer;border:0;background:none;paddin
 .invite p{margin:10px 0 0;font-size:15px;line-height:1.75}
 .send{display:block;width:100%;margin:16px 0 0;background:var(--line);color:#fff;font-size:22px;font-weight:900;padding:16px 8px;border-radius:99px;box-shadow:0 6px 0 #04913E,0 12px 18px rgba(0,0,0,.2);text-decoration:none;position:relative;overflow:hidden}
 .send small{display:block;font-size:13px;font-weight:700}
+.after{font-size:14px;font-weight:700;margin:12px 0 0;opacity:.92}
 .again{display:block;margin:14px auto 0;color:#fff;font-size:14px;text-decoration:underline}
 .shw{position:absolute;top:-20%;bottom:-20%;left:-40%;width:28%;background:linear-gradient(100deg,rgba(255,255,255,0),rgba(255,255,255,.55),rgba(255,255,255,0));transform:skewX(-18deg)}
 .conf{position:absolute;top:-30px;width:12px;height:18px;border-radius:3px;z-index:9;pointer-events:none}
@@ -176,9 +177,10 @@ button{font:inherit;color:inherit;cursor:pointer;border:0;background:none;paddin
   </div>
 
   <div class="invite">
-    <h3>この結果は、<b>講師に届きます。</b><br>当日は、ここから話を始めます。</h3>
+    <h3>当日は、<b>この結果から</b><br>話を始めます。</h3>
     <p>Zoomで1時間・参加は無料。<br>1回1〜3組の少人数です。<br>ご家族と一緒でも、お一人でも。</p>
-    <a class="send" id="send" href="../line-next/">この結果を送って、日程を選ぶ<small>LINEのトークに戻ります</small><span class="shw"></span></a>
+    <a class="send" id="send" href="../line-next/">結果のカードをLINEで受け取る<small>LINEが開いたら、紙ひこうき（送信）を押すだけ</small><span class="shw"></span></a>
+    <p class="after">日程は、カードが届いたあとで選べます。</p>
     <button class="again" id="again" type="button">もう一度やってみる</button>
   </div>
   <p class="foot">おばあちゃんでもできる お金の増やし方 オンライン勉強会<br>fulfull株式会社｜投資には元本割れのおそれがあります。</p>
@@ -191,11 +193,11 @@ var Q=[
  {k:'age',t:'いまの<em>年代</em>は？',s:'積み立てを続ける年数の目安に使います',c3:1,o:[['age1','40代',20],['age2','50代',15],['age3','60代から',10]]},
  {k:'wish',t:'いちばん<em>叶えたい</em>のは？',s:'ピンとくる絵を、ひとつ',o:[['wish1','旅行を、がまんせず楽しむ','旅'],['wish2','孫や子へのお祝いを笑って出す','祝'],['wish3','老後のお金の心配を小さくする','老'],['wish4','自分のやりたいことを続ける','自']]},
  {k:'now',t:'いまの<em>お金の置き場所</em>は？',s:'いちばん近いものを',o:[['place1','ほとんど貯金',0],['place2','NISAの口座は作った',1],['place3','少し積み立てている',2],['place4','いろいろ続けている',3]]},
- {k:'m',t:'毎月、<em>無理なく</em>回せそうなのは？',s:'だいたいで大丈夫です',coin:1,o:[[1,'<b class="n">1</b>万円くらい',1],[3,'<b class="n">3</b>万円くらい',3],[5,'<b class="n">5</b>万円くらい',5],[0,'まだ分からない',3]]},
- {k:'ask',t:'当日、いちばん<em>聞きたい</em>のは？',s:'これが、あなたの回の1品目になります',o:[['ask1','何から始めればいい？',0],['ask2','いくら貯めれば安心？',1],['ask3','新NISAのきほん',2],['ask4','今のやり方で合っている？',3]]}
+ {k:'m',t:'毎月、<em>無理なく</em>回せそうなのは？',s:'だいたいで大丈夫です',coin:1,o:[[1,'<b class="n">1</b>万円くらい',1],[3,'<b class="n">3</b>万円くらい',3],[5,'<b class="n">5</b>万円くらい',5],[0,'いまは回せない・<br>まだ分からない',3]]},
+ {k:'ask',t:'当日、いちばん<em>聞きたい</em>のは？',s:'あなたの回のお品書きに入ります',o:[['ask1','何から<br>始めればいい？',0],['ask2','いくら貯めれば<br>安心？',1],['ask3','新NISAのきほん',2],['ask4','今のやり方で<br>合っている？',3],['ask5','年金・退職金の<br>受け取り方',4],['ask6','貯めたお金を<br>使う順番',5]]}
 ];
 var T=[
- ['type1','たねまきさん','これから種をまくところ','まだ何もしていなくて、大丈夫。<b>まく順番</b>さえ分かれば、あとは育つのを待つだけです。'],
+ ['type1','たねまきさん','これから種をまくところ','ここからが、はじまり。貯めてきたお金も、りっぱな種です。<b>まく順番</b>が分かると、最初の一歩がぐっと軽くなります。'],
  ['type2','めばえさん','もう芽が出ています','口座を作ったのは、大きな一歩。次は、<b>何をどれだけ育てるか</b>を決める番です。'],
  ['type3','つぼみさん','つぼみが、ふくらんでいます','続けているのが、いちばんの力。<b>今のやり方が合っているか</b>、一度いっしょに確かめましょう。'],
  ['type4','はなさかさん','花が咲きはじめています','ここまで育てた方は多くありません。次は、<b>守り方と、笑って使う順番</b>です。']
@@ -204,7 +206,9 @@ var M=[
  [['ask1','お金を増やす第一歩','まずは何から始めるのが正解？'],['place1','お金を分ける3つの袋','もしも・近い将来・長く育てる']],
  [['ask2','自分の家の数字で','いくら貯めれば安心？'],['place1','物価が上がる時代の','貯金の置き方']],
  [['ask3','はじめての方も','新NISAのきほん'],['ask1','お金を増やす第一歩','まずは何から始めるのが正解？']],
- [['ask4','貯めているのに増えない家の','よくある置き方'],['place4','お金を分ける3つの袋','もしも・近い将来・長く育てる']]
+ [['ask4','貯めているのに増えない家の','よくある置き方'],['place4','お金を分ける3つの袋','もしも・近い将来・長く育てる']],
+ [['ask5','年金・退職金の','受け取り方と置き場所'],['place1','物価が上がる時代の','貯金の置き方']],
+ [['ask6','貯めたお金を','笑って使っていく順番'],['place4','お金を分ける3つの袋','もしも・近い将来・長く育てる']]
 ];
 var W={'旅':['wish1','旅行のお金を','どの袋から出すか'],'祝':['wish2','お祝いのお金を','笑って出せる置き方'],'老':['wish3','老後のお金','うちの場合の目安'],'自':['wish4','やりたいことを続ける','毎月の分け方']};
 var a={},i=0,$=function(x){return document.getElementById(x)};
@@ -229,10 +233,10 @@ function confetti(){if(!matchMedia('(prefers-reduced-motion:no-preference)').mat
 function count(el,to){var s=performance.now();(function f(t){var k=Math.min(1,(t-s)/1300);el.firstChild.nodeValue=Math.round(to*(1-Math.pow(1-k,3)));if(k<1)requestAnimationFrame(f)})(s)}
 function res(){
  var t=T[a.now];$('rlab').textContent=t[2];$('rimg').src='img/'+t[0]+'.webp';$('rimg').alt=t[1];$('rname').textContent=t[1];$('rcp').innerHTML=t[3];
- $('gttl').innerHTML='毎月<em>'+a.m+'万円</em>を、<em>'+a.age+'年</em>つづけると'+(a.unk?'<br><small style="font-size:.6em;color:#5E7672">（まずは3万円で見てみます）</small>':'');
+ $('gttl').innerHTML='毎月<em>'+a.m+'万円</em>を、<em>'+a.age+'年</em>つづけると'+(a.unk?'<br><small style="font-size:.6em;color:#5E7672">（回すお金の見つけ方から、当日お話しします。ここでは3万円で見てみます）</small>':'');
  var v=[fv(a.m,a.age,0),fv(a.m,a.age,.03),fv(a.m,a.age,.05)],bs=$('bars');bs.innerHTML='';bs.className='bars';
  v.forEach(function(x,n){var d=document.createElement('div');d.className='bar b'+(n+1);d.innerHTML=(n?'<span class="plus">＋'+Math.round(x-v[0])+'万円</span>':'')+'<b>0<small>万円</small></b><i></i>';bs.appendChild(d)});
- var mn=$('menu');mn.innerHTML='';[W[a.wish]].concat(M[a.ask]).forEach(function(m,n){var d=document.createElement('div');d.className='mi';d.innerHTML='<img src="img/'+m[0]+'.webp" alt="" width="150" height="150"><div><small>'+(n+1)+'品目｜'+m[1]+'</small>'+m[2]+'</div>';mn.appendChild(d)});
+ var mn=$('menu');mn.innerHTML='';[W[a.wish]].concat(M[a.ask]).concat(a.unk?[['place1','毎月「回せるお金」の','見つけ方']]:[]).forEach(function(m,n){var d=document.createElement('div');d.className='mi';d.innerHTML='<img src="img/'+m[0]+'.webp" alt="" width="150" height="150"><div><small>'+(n+1)+'品目｜'+m[1]+'</small>'+m[2]+'</div>';mn.appendChild(d)});
  try{$('send').href='../line-next/?r='+a.now+'&m='+a.m+'&y='+a.age}catch(e){}
  show('result');confetti();
  setTimeout(function(){bs.classList.add('run');bs.querySelectorAll('.bar').forEach(function(d,n){d.querySelector('i').style.height=Math.max(8,v[n]/v[2]*72)+'%';count(d.querySelector('b'),v[n])})},700);
